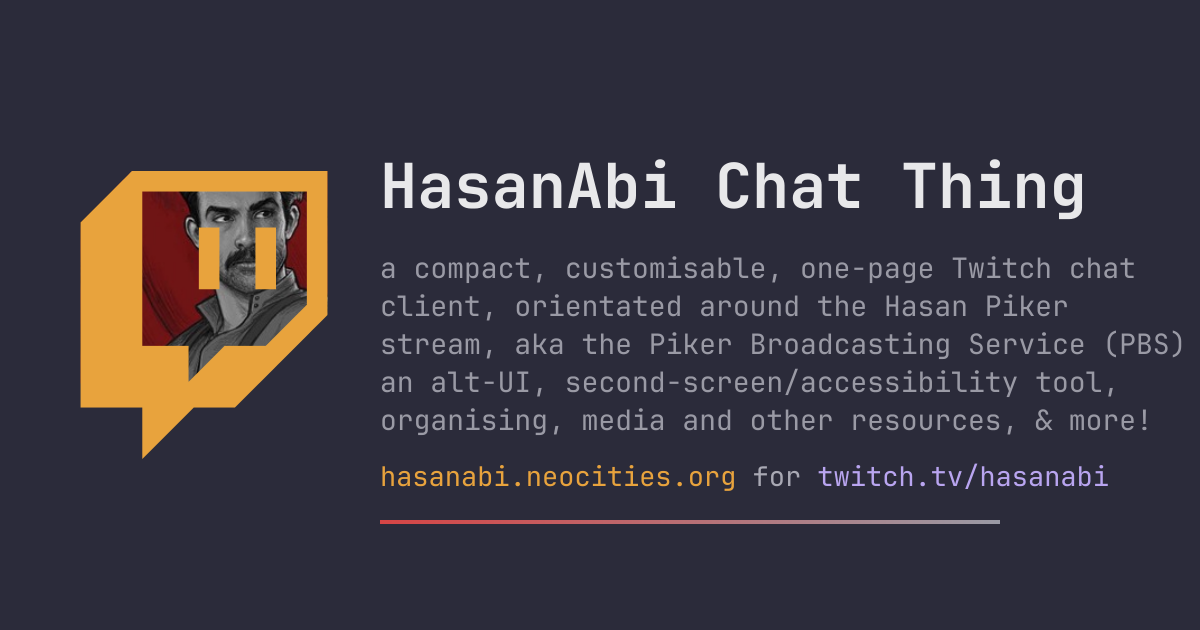
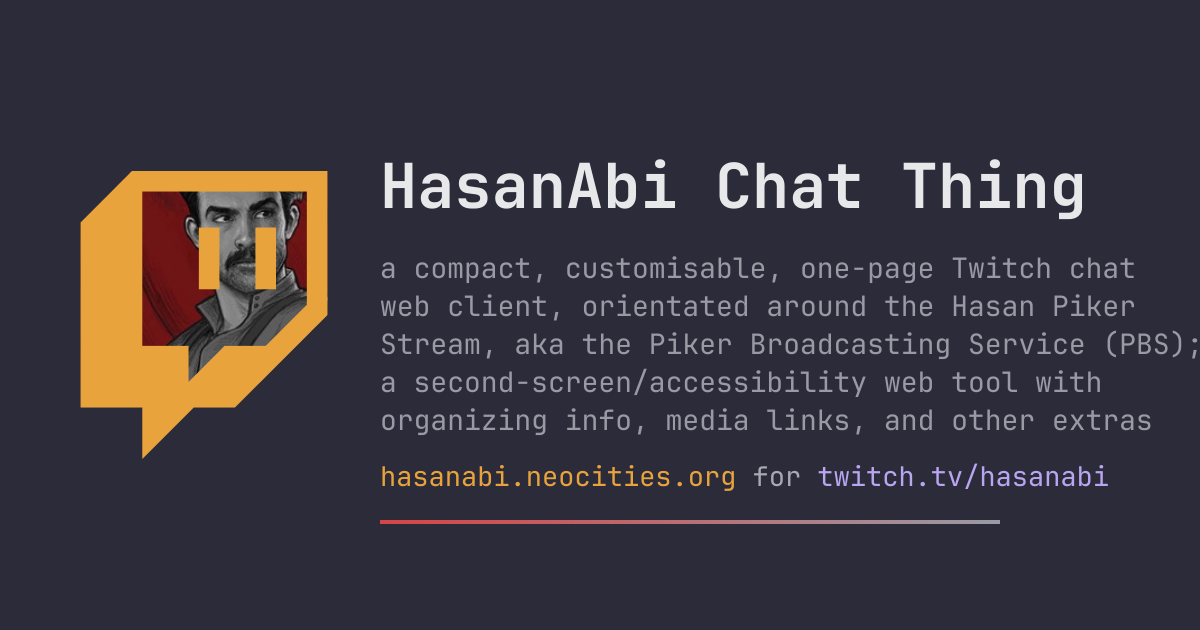
about: update the og card copy
The visible card now carries the same PBS, accessibility and extras
wording as the page metadata, with matching alt text.

Generated with [Devin](https://devin.ai)

diff --git a/about/index.html b/about/index.html
@@ -124,7 +124,7 @@
 </head>
 <body>
 <main>
-  <div class="card"><img src="../og.png" alt="HasanAbi Chat Thing - a compact customisable web page Twitch chat client"></div>
+  <div class="card"><img src="../og.png" alt="HasanAbi Chat Thing - a compact, customisable, one-page Twitch chat web client, orientated around the Hasan Piker Stream, aka the Piker Broadcasting Service (PBS); a second-screen/accessibility web tool with organizing info, media links, and other extras"></div>
 
   <p>liberates the
   <a href="https://www.twitch.tv/hasanabi">HasanAbi</a> Twitch chat for use as a
